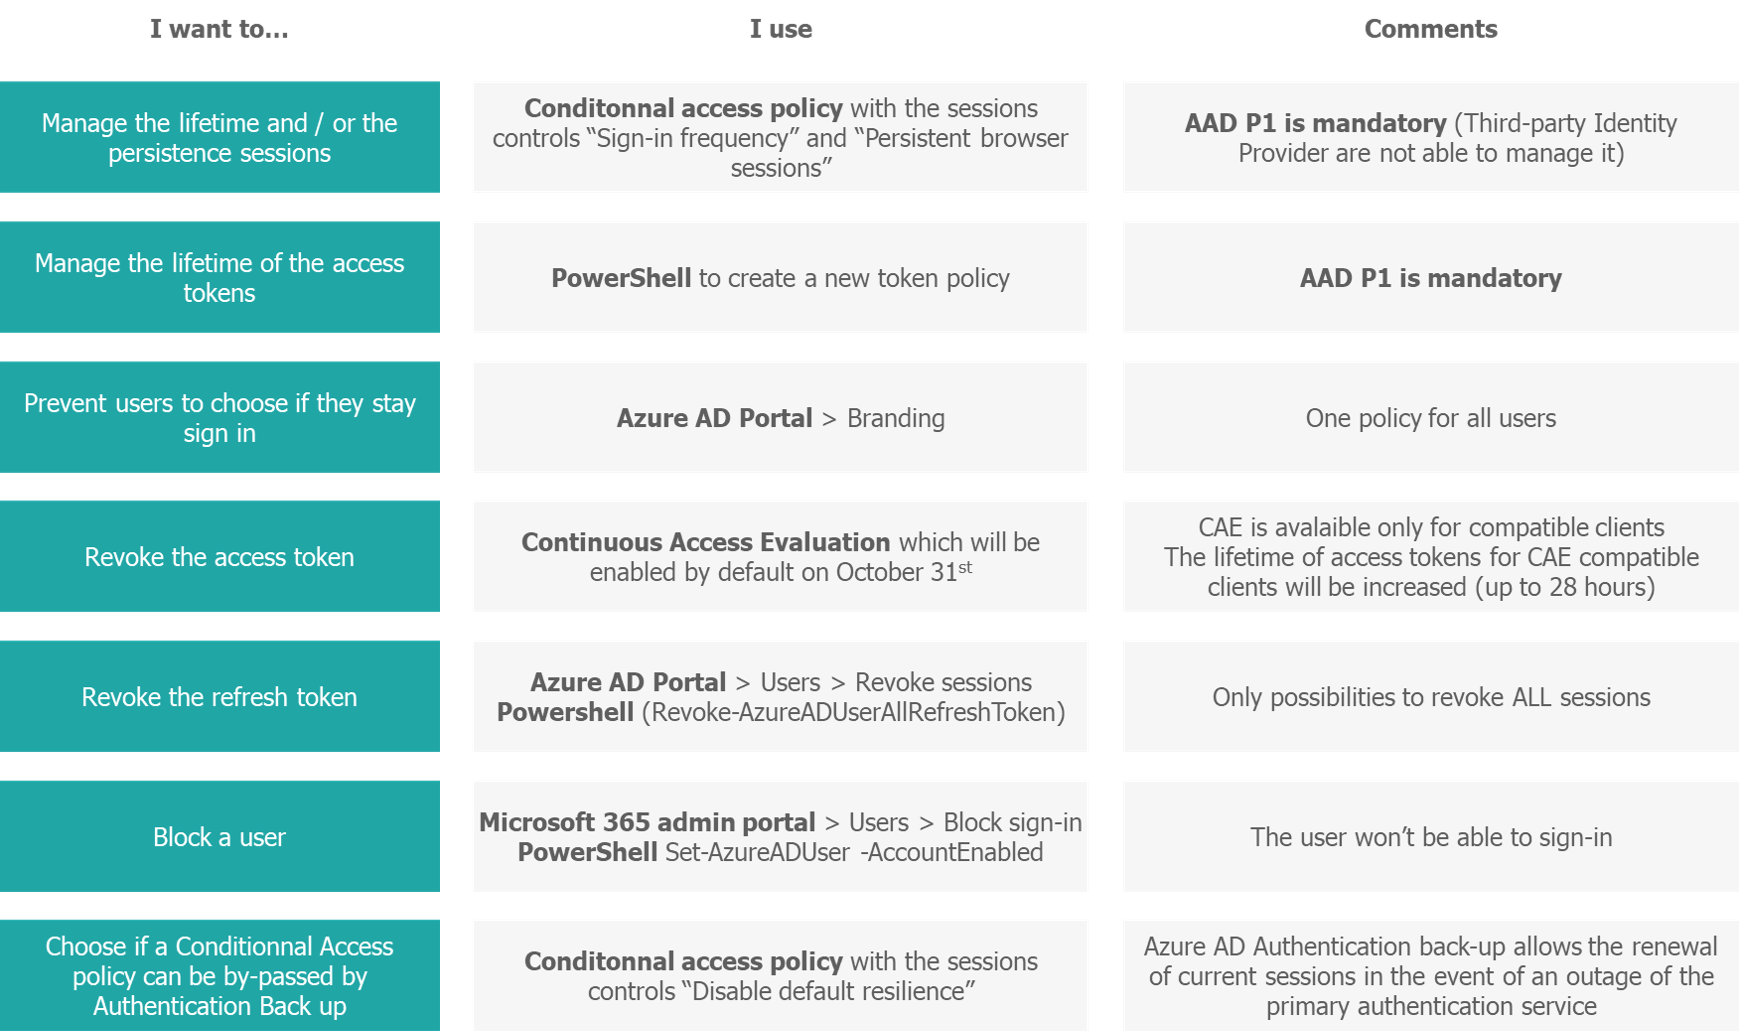
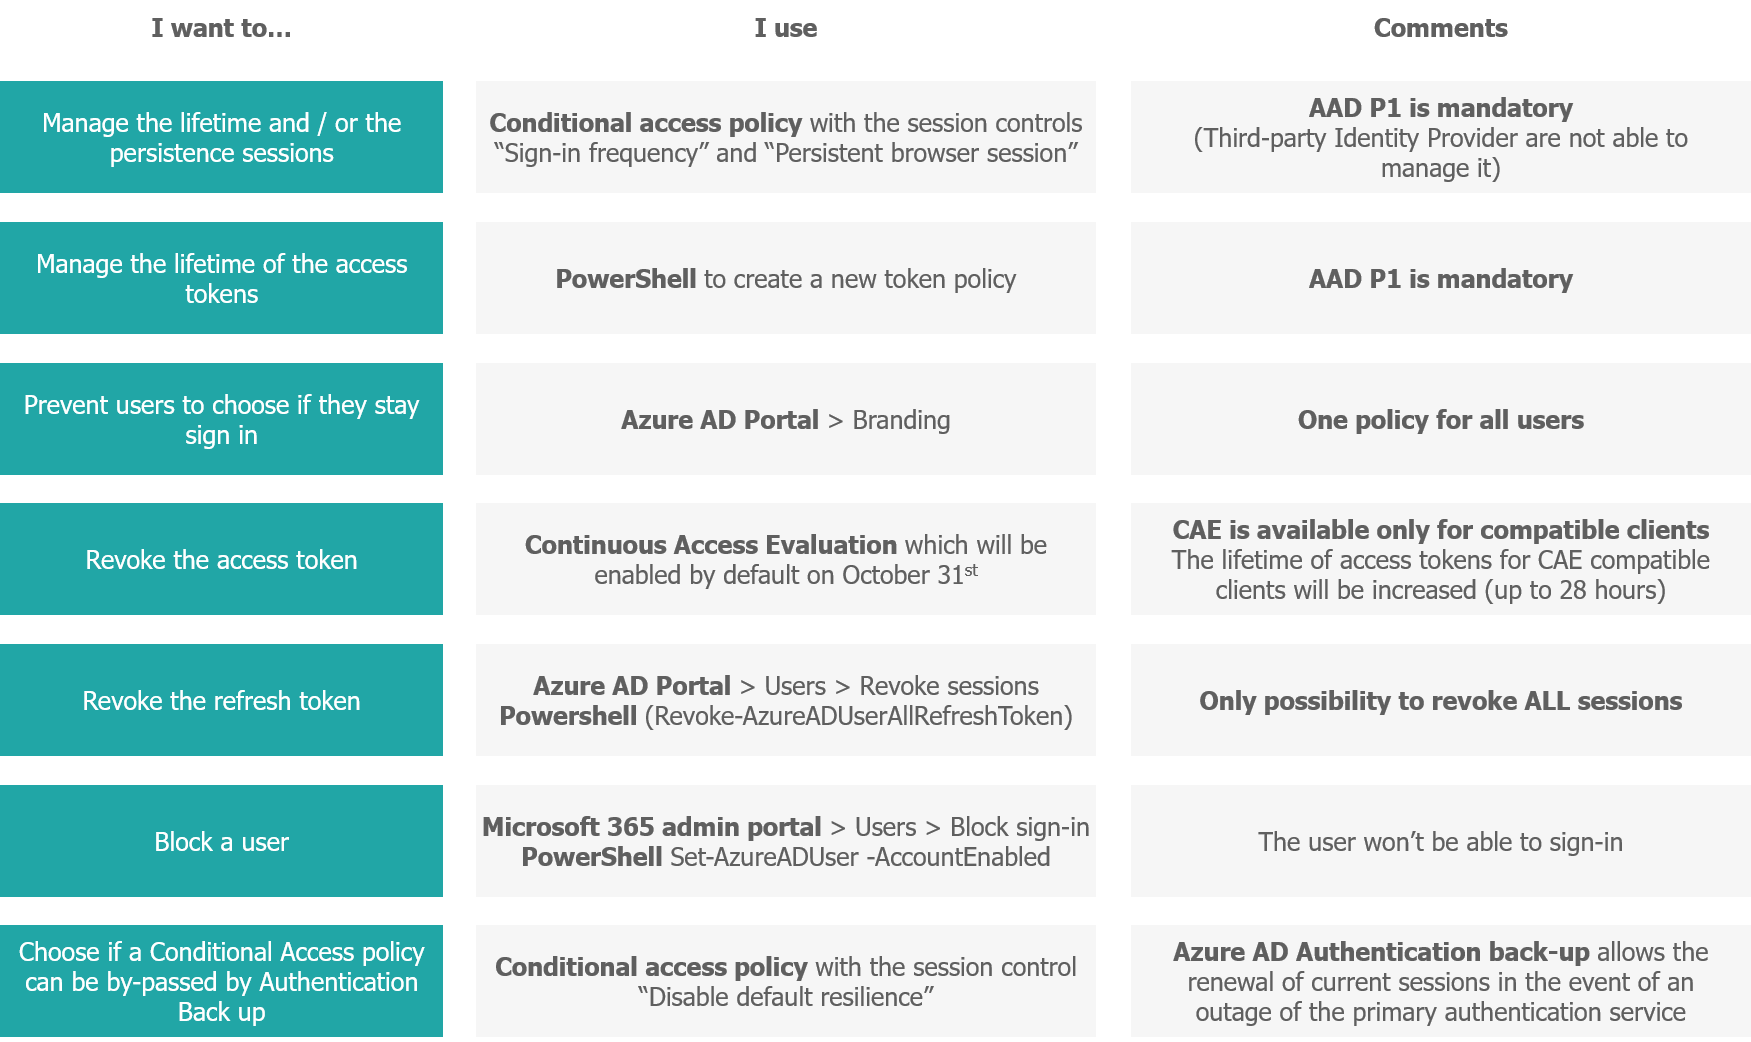
New article : Tokens

diff --git a/collections/_posts/2021-10-19-Office365-Tokens-Lifetime.md b/collections/_posts/2021-10-19-Office365-Tokens-Lifetime.md
@@ -4,7 +4,7 @@ subtitle:
 excerpt: How long are my users logged in? How much flexibility do I have to revoke a compromised user's access? 
 tags:
   - Azure AD
-  - Conditionnal Access
+  - Conditional Access
   - Microsoft 365
   - Security
 header_img : "./assets/img/posts/2021-10-19_Office365-Tokens-Lifetime_0.png"
